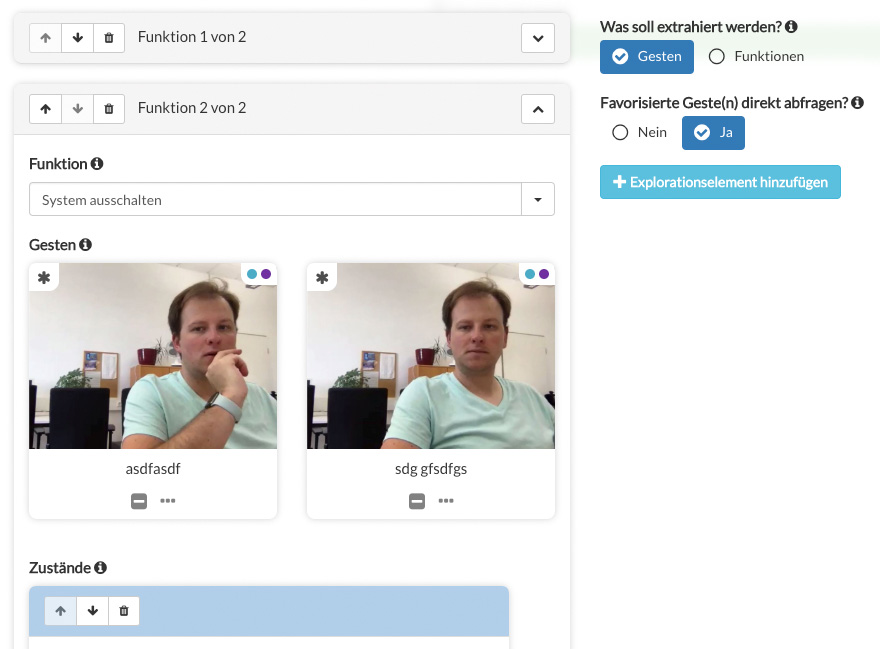
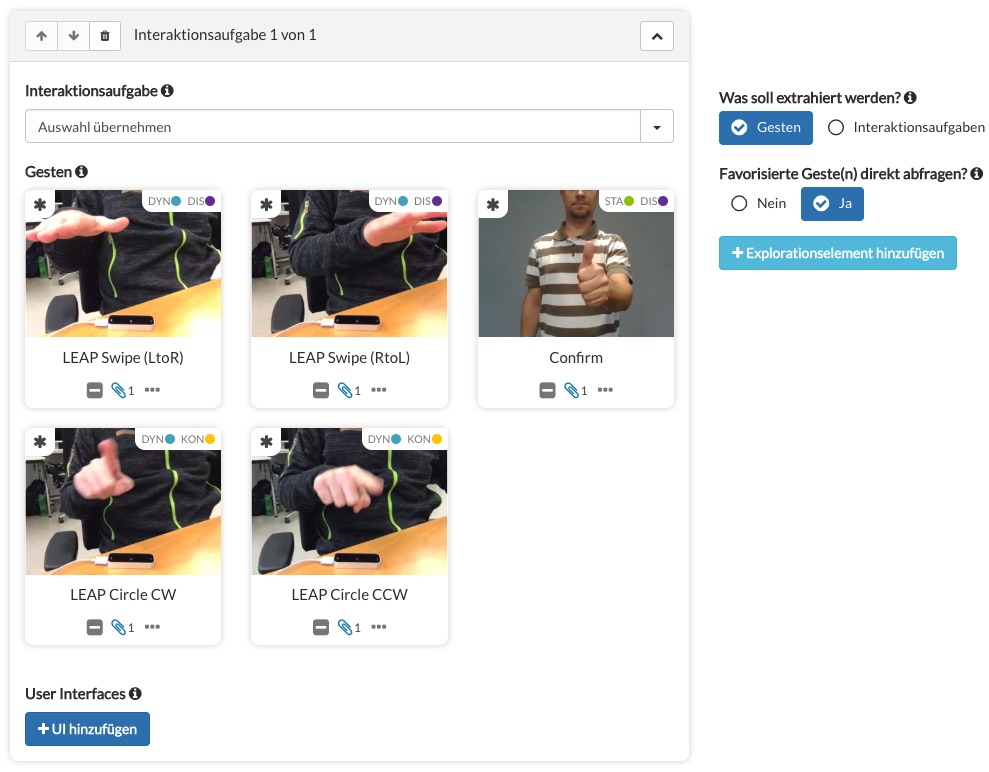
- update introduction with new text and images - fix issue for study execution webrtc, no audio input selected - add max participants for collaborative video calls - observer allowed for all phase steps - fix issue in rtc result player - add info for gesture thumbnail about used sensor

diff --git a/js/peerConnection.js b/js/peerConnection.js
@@ -106,18 +106,24 @@ PeerConnection.prototype.initialize = function (options) {
                 if (deviceInfos[i].kind === 'videoinput' && !deviceInfos[i].label.toLowerCase().includes('leap')) {
                     console.log('standard video input device:', deviceInfos[i]);
                     videoSource = deviceInfos[i].deviceId;
+                    if (micSource !== null) {
+                        break;
+                    }
                 } else if (deviceInfos[i].kind === 'audioinput' && deviceInfos[i].deviceId === 'default') {
                     console.log('standard audio input device:', deviceInfos[i]);
                     micSource = deviceInfos[i].deviceId;
+                    if (videoSource !== null) {
+                        break;
+                    }
                 }
             }
 
             if (getBrowser() === "Chrome") {
-                var constraints = {audio: false,
-                    video: {deviceId: {exact: videoSource, "mandatory": {"minWidth": 320, "maxWidth": 320, "minHeight": 240, "maxHeight": 240}, "optional": []}
+                var constraints = {audio: {deviceId: {exact: micSource}},
+                    video: {deviceId: {exact: videoSource, "mandatory": {"minWidth": 320, "maxWidth": 320, "minHeight": 240, "maxHeight": 240}, frameRate: {ideal: 20, min: 10}, "optional": []}
                     }};
             } else if (getBrowser() === "Firefox") {
-                var constraints = {audio: false,
+                var constraints = {audio: {deviceId: {exact: micSource}},
                     video: {deviceId: {exact: videoSource, width: {min: 320, ideal: 320, max: 320}, height: {min: 240, ideal: 240, max: 240}}
                     }};
             }
@@ -315,6 +321,12 @@ PeerConnection.prototype.initialize = function (options) {
                     console.log('screen added', peer);
                     $(connection).trigger(MESSAGE_SHARED_SCREEN_ADDED, [video]);
                 } else {
+                    var peers = webrtc.getPeers();
+                    if (connection.options.maxParticipants && connection.options.maxParticipants && peers.length > connection.options.maxParticipants) {
+                        console.warn('only 4 participants for one room allowed');
+                        connection.sendMessage('roomIsFull');
+                        return false;
+                    }
                     console.log('webrtc stream added', peer);
                     $(video).attr('data-role', peer.nick);
 
@@ -444,8 +456,6 @@ PeerConnection.prototype.initialize = function (options) {
                 console.log('joined room:', roomName);
                 connection.showLocalStream();
                 $(connection).trigger('joinedRoom', [roomName]);
-
-//            $('#localVideo').css({opacity: 1});
             });
 
             webrtc.on('leftRoom', function (roomName) {
@@ -453,8 +463,6 @@ PeerConnection.prototype.initialize = function (options) {
                 connection.hideLocalStream();
                 $(connection).trigger('leftRoom', [roomName]);
                 connection.destroy();
-
-//            $('#localVideo').css({opacity: 0});
             });
 
             webrtc.on('stunservers', function (event) {
@@ -503,9 +511,14 @@ PeerConnection.prototype.initialize = function (options) {
                 if (options.selectedRole === payload.role) {
                     $(connection).trigger('leaveRoomDuplicatedRoles');
                     connection.leaveRoom();
-
-//                alert('Pro Konversation darf nur jeweils eine Rolle eingenommen werden. Diese Rolle gibt es schon. Wählen Sie eine andere aus.');
                 }
+            });
+
+            $(connection).unbind('roomIsFull').bind('roomIsFull', function (event) {
+                event.preventDefault();
+                console.log('full room detected');
+                $(connection).trigger('leaveFullRoom');
+                connection.leaveRoom();
             });
         }
     } else {
@@ -848,9 +861,9 @@ PeerConnection.prototype.initRecording = function (startRecording) {
         if (startRecording === true) {
             mediaRecorder.start(1000);
         }
-    } else if(mediaRecorder.state !== 'recording' && startRecording) {
+    } else if (mediaRecorder.state !== 'recording' && startRecording) {
 //        if (mediaRecorder && mediaRecorder.state !== 'recording' && startRecording) {
-            mediaRecorder.start(1000);
+        mediaRecorder.start(1000);
 //        }
     }
 

diff --git a/js/rtc-result-player.js b/js/rtc-result-player.js
@@ -927,11 +927,11 @@ function getVisDataSet(timelineData) {
 //                    contentText = translation.annotationsList[annotations[i].action] + ': ' + gesture.title;
 //                    break;
                 case ACTION_START_TASK:
-                    var task = getTaskById(annotations[i].taskId);
+                    var task = getTaskById(timelineData, annotations[i].taskId);
                     contentText = translation.task + ': ' + task.title;
                     break;
                 case ACTION_ASSESSMENT:
-                    contentText = timelineData.phaseData.taskAssessments[annotations[i].assessmentId].title + ': ' + getTaskById(annotations[i].taskId).title;
+                    contentText = timelineData.phaseData.taskAssessments[annotations[i].assessmentId].title + ': ' + getTaskById(timelineData, annotations[i].taskId).title;
                     var color = timelineData.phaseData.taskAssessments[annotations[i].assessmentId].annotationColor;
                     switch (color) {
                         case ASSESSMENT_COLOR_GREEN:
@@ -1009,16 +1009,17 @@ function getVisDataSet(timelineData) {
 //        setLocalItem(timelineData.phaseResults.id + (timelineData.checkedVideos.secondVideo ? '.evaluator' : '.results'), tempData);
     }
 
-    function getTaskById(id) {
-        for (var i = 0; i < timelineData.phaseData.tasks.length; i++) {
-            if (parseInt(timelineData.phaseData.tasks[i].id) === parseInt(id)) {
-                return timelineData.phaseData.tasks[i];
-            }
-        }
-        return null;
-    }
-
     return array;
+}
+
+
+function getTaskById(timelineData, id) {
+    for (var i = 0; i < timelineData.phaseData.tasks.length; i++) {
+        if (parseInt(timelineData.phaseData.tasks[i].id) === parseInt(id)) {
+            return timelineData.phaseData.tasks[i];
+        }
+    }
+    return null;
 }
 
 function renderSeekbarData(visData, timelineData, content) {
@@ -1259,11 +1260,11 @@ function editAnnotation(annotationId, timelineData, content, source, linkListIte
                 selectedColor = 'item-warning-full';
                 break;
             case ACTION_START_TASK:
-                var task = getTaskById(annotation.taskId);
+                var task = getTaskById(timelineData, annotation.taskId);
                 contentText = translation.task + ': ' + task.title;
                 break;
             case ACTION_ASSESSMENT:
-                contentText = timelineData.phaseData.taskAssessments[annotation.assessmentId].title + ': ' + getTaskById(annotation.taskId).title;
+                contentText = timelineData.phaseData.taskAssessments[annotation.assessmentId].title + ': ' + getTaskById(timelineData, annotation.taskId).title;
                 selectedColor = timelineData.phaseData.taskAssessments[annotation.assessmentId].annotationColor;
                 break;
             case ACTION_SHOW_FEEDBACK:
@@ -1520,7 +1521,7 @@ function initializeAnnotationHandling(timelineData, content) {
 
     $('#annotation-nav-pills a').click(function (event) {
         event.preventDefault();
-        
+
         $(content).find('#annotation-nav-tab-content .active').removeClass('active');
 //        console.log($(content).find('#annotation-nav-tab-content .active'));
         var activeTab = $(event.currentTarget).attr('href');

diff --git a/js/execution/user-test.js b/js/execution/user-test.js
@@ -413,7 +413,7 @@ UserTest.prototype.renderModeratorView = function () {
                         $(feedbackButton).find('#waiting-indicator').addClass('hidden');
 
                         getGMT(function (timestamp) {
-                            var currentPhase = getCurrentPhase();
+//                            var currentPhase = getCurrentPhase();
                             var tempData = getLocalItem(currentPhase.id + '.tempSaveData');
                             tempData.annotations.push({id: tempData.annotations.length, action: ACTION_HIDE_FEEDBACK, feeback: feedback, time: timestamp});
                             setLocalItem(currentPhase.id + '.tempSaveData', tempData);
@@ -421,7 +421,7 @@ UserTest.prototype.renderModeratorView = function () {
                     });
 
                     getGMT(function (timestamp) {
-                        var currentPhase = getCurrentPhase();
+//                        var currentPhase = getCurrentPhase();
                         var tempData = getLocalItem(currentPhase.id + '.tempSaveData');
                         tempData.annotations.push({id: tempData.annotations.length, action: ACTION_SHOW_FEEDBACK, feeback: feedback, time: timestamp});
                         setLocalItem(currentPhase.id + '.tempSaveData', tempData);

diff --git a/js/globalFunctions.js b/js/globalFunctions.js
@@ -2522,6 +2522,20 @@ function initGestureThumbnail(data, typeId, layout, panelStyle) {
         clone.find('.gesture-info-symbols').addClass('hidden');
     }
 
+    if (data.sensorData) {
+        $(clone).find('.symbol-container-sensor').removeClass('hidden');
+        $(clone).find('.symbol-container-sensor').attr('data-content', translation.sensors[data.sensorData.sensor].title);
+        
+        switch (data.sensorData.sensor) {
+            case TYPE_RECORD_LEAP:
+                $(clone).find('.symbol-container-sensor .text-sensor-leap').removeClass('hidden');
+                break;
+            case TYPE_RECORD_KINECT:
+                $(clone).find('.symbol-container-sensor .text-sensor-kinect').removeClass('hidden');
+                break;
+        }
+    }
+
     if (panelStyle) {
         clone.find('.panel').removeClass('panel-default').addClass(panelStyle);
     }

diff --git a/js/collaborativeVideo.js b/js/collaborativeVideo.js
@@ -10,7 +10,7 @@ var joinedRoom = false;
 
 function checkCollaborativeConversation() {
     var query = getQueryParams(document.location.search);
-    
+
     if (query && query.joinedConv && query.joinedConv === 'true') {
         console.log('joined room =', query.joinedConv, $('.btn-join-conversation'));
         $('.btn-join-conversation').click();
@@ -41,6 +41,7 @@ function initCollaborativeVideoCaller(roomId) {
         nick: selectedRole,
         ignoreRole: 'yes',
         selectedRole: selectedRole,
+        maxParticipants: 4,
         localStream: {audio: 'yes', video: 'yes', visualize: 'yes'},
         remoteStream: {audio: 'yes', video: 'yes'}
     };

diff --git a/externals/template-gesture.php b/externals/template-gesture.php
@@ -26,6 +26,12 @@ include '../includes/language.php';
                     </div>
                 </div>
                 <div class="gesture-info-symbols">
+                    <span class="symbol-container-sensor hidden" data-toggle="popover" data-trigger="hover" data-placement="auto" data-content="" style="display: flex; cursor: pointer; margin-right: 6px;">
+                        <span class="gesture-info-symbol-text text-sensor">
+                            <span class="text-sensor-leap hidden"><?php echo $lang->sensors->leap->titleShort ?></span>
+                            <span class="text-sensor-kinect hidden"><?php echo $lang->sensors->kinect->titleShort ?></span>
+                        </span>
+                    </span>
                     <span class="symbol-container-gesture-execution" data-toggle="popover" data-trigger="hover" data-placement="auto" data-content="">
                         <span class="gesture-info-symbol-text text-gesture-execution"></span>
                         <div class="gesture-info-symbol symbol-gesture-execution"></div>
@@ -34,9 +40,6 @@ include '../includes/language.php';
                         <span class="gesture-info-symbol-text text-gesture-interaction"></span>
                         <div class="gesture-info-symbol symbol-gesture-interaction"></div>
                     </span>
-<!--                    <span class="symbol-container-gesture-sets" data-toggle="popover" data-trigger="hover" data-placement="auto" data-content="">
-                        <span class="gesture-sets-info-symbol-text">SETS</span>
-                    </span>-->
                 </div>
             </div>
             <div class="caption text-center">
@@ -69,6 +72,12 @@ include '../includes/language.php';
                     </div>
                 </div>
                 <div class="gesture-info-symbols">
+                    <span class="symbol-container-sensor hidden" data-toggle="popover" data-trigger="hover" data-placement="auto" data-content="" style="display: flex; cursor: pointer; margin-right: 6px;">
+                        <span class="gesture-info-symbol-text text-sensor">
+                            <span class="text-sensor-leap hidden"><?php echo $lang->sensors->leap->titleShort ?></span>
+                            <span class="text-sensor-kinect hidden"><?php echo $lang->sensors->kinect->titleShort ?></span>
+                        </span>
+                    </span>
                     <span class="symbol-container-gesture-execution" data-toggle="popover" data-trigger="hover" data-placement="auto" data-content="">
                         <span class="gesture-info-symbol-text text-gesture-execution"></span>
                         <div class="gesture-info-symbol symbol-gesture-execution"></div>
@@ -107,6 +116,12 @@ include '../includes/language.php';
                     </div>
                 </div>
                 <div class="gesture-info-symbols">
+                    <span class="symbol-container-sensor hidden" data-toggle="popover" data-trigger="hover" data-placement="auto" data-content="" style="display: flex; cursor: pointer; margin-right: 6px;">
+                        <span class="gesture-info-symbol-text text-sensor">
+                            <span class="text-sensor-leap hidden"><?php echo $lang->sensors->leap->titleShort ?></span>
+                            <span class="text-sensor-kinect hidden"><?php echo $lang->sensors->kinect->titleShort ?></span>
+                        </span>
+                    </span>
                     <span class="symbol-container-gesture-execution" data-toggle="popover" data-trigger="hover" data-placement="auto" data-content="">
                         <span class="gesture-info-symbol-text text-gesture-execution"></span>
                         <div class="gesture-info-symbol symbol-gesture-execution"></div>
@@ -152,6 +167,12 @@ include '../includes/language.php';
                     </div>
                 </div>
                 <div class="gesture-info-symbols">
+                    <span class="symbol-container-sensor hidden" data-toggle="popover" data-trigger="hover" data-placement="auto" data-content="" style="display: flex; cursor: pointer; margin-right: 6px;">
+                        <span class="gesture-info-symbol-text text-sensor">
+                            <span class="text-sensor-leap hidden"><?php echo $lang->sensors->leap->titleShort ?></span>
+                            <span class="text-sensor-kinect hidden"><?php echo $lang->sensors->kinect->titleShort ?></span>
+                        </span>
+                    </span>
                     <span class="symbol-container-gesture-execution" data-toggle="popover" data-trigger="hover" data-placement="auto" data-content="">
                         <span class="gesture-info-symbol-text text-gesture-execution"></span>
                         <div class="gesture-info-symbol symbol-gesture-execution"></div>
@@ -195,6 +216,12 @@ include '../includes/language.php';
                     </div>
                 </div>
                 <div class="gesture-info-symbols">
+                    <span class="symbol-container-sensor hidden" data-toggle="popover" data-trigger="hover" data-placement="auto" data-content="" style="display: flex; cursor: pointer; margin-right: 6px;">
+                        <span class="gesture-info-symbol-text text-sensor">
+                            <span class="text-sensor-leap hidden"><?php echo $lang->sensors->leap->titleShort ?></span>
+                            <span class="text-sensor-kinect hidden"><?php echo $lang->sensors->kinect->titleShort ?></span>
+                        </span>
+                    </span>
                     <span class="symbol-container-gesture-execution" data-toggle="popover" data-trigger="hover" data-placement="auto" data-content="">
                         <span class="gesture-info-symbol-text text-gesture-execution"></span>
                         <div class="gesture-info-symbol symbol-gesture-execution"></div>
@@ -226,6 +253,12 @@ include '../includes/language.php';
                     </div>
                 </div>
                 <div class="gesture-info-symbols">
+                    <span class="symbol-container-sensor hidden" data-toggle="popover" data-trigger="hover" data-placement="auto" data-content="" style="display: flex; cursor: pointer; margin-right: 6px;">
+                        <span class="gesture-info-symbol-text text-sensor">
+                            <span class="text-sensor-leap hidden"><?php echo $lang->sensors->leap->titleShort ?></span>
+                            <span class="text-sensor-kinect hidden"><?php echo $lang->sensors->kinect->titleShort ?></span>
+                        </span>
+                    </span>
                     <span class="symbol-container-gesture-execution" data-toggle="popover" data-trigger="hover" data-placement="auto" data-content="">
                         <span class="gesture-info-symbol-text text-gesture-execution"></span>
                         <div class="gesture-info-symbol symbol-gesture-execution"></div>
@@ -310,6 +343,12 @@ include '../includes/language.php';
                     <i class="fa fa-asterisk"></i>
                 </div>
                 <div class="gesture-info-symbols">
+                    <span class="symbol-container-sensor hidden" data-toggle="popover" data-trigger="hover" data-placement="auto" data-content="" style="display: flex; cursor: pointer; margin-right: 6px;">
+                        <span class="gesture-info-symbol-text text-sensor">
+                            <span class="text-sensor-leap hidden"><?php echo $lang->sensors->leap->titleShort ?></span>
+                            <span class="text-sensor-kinect hidden"><?php echo $lang->sensors->kinect->titleShort ?></span>
+                        </span>
+                    </span>
                     <span class="symbol-container-gesture-execution" data-toggle="popover" data-trigger="hover" data-placement="auto" data-content="">
                         <span class="gesture-info-symbol-text text-gesture-execution"></span>
                         <div class="gesture-info-symbol symbol-gesture-execution"></div>
@@ -383,6 +422,12 @@ include '../includes/language.php';
                     <i class="fa fa-asterisk"></i>
                 </div>
                 <div class="gesture-info-symbols">
+                    <span class="symbol-container-sensor hidden" data-toggle="popover" data-trigger="hover" data-placement="auto" data-content="" style="display: flex; cursor: pointer; margin-right: 6px;">
+                        <span class="gesture-info-symbol-text text-sensor">
+                            <span class="text-sensor-leap hidden"><?php echo $lang->sensors->leap->titleShort ?></span>
+                            <span class="text-sensor-kinect hidden"><?php echo $lang->sensors->kinect->titleShort ?></span>
+                        </span>
+                    </span>
                     <span class="symbol-container-gesture-execution" data-toggle="popover" data-trigger="hover" data-placement="auto" data-content="">
                         <span class="gesture-info-symbol-text text-gesture-execution"></span>
                         <div class="gesture-info-symbol symbol-gesture-execution"></div>

diff --git a/externals/modal-gesture.php b/externals/modal-gesture.php
@@ -88,10 +88,14 @@ include '../includes/language.php';
                             <div id="rated-by-myself" class="hidden"><?php echo $lang->gestureRated ?></div>
                             <div class="alert-space alert-rating-submitted" style="margin-top: 10px;"></div>
                         </div>
-                        <button type="button" class="btn btn-block btn-warning" id="btn-rate-gesture" style="margin-top: 10px;"><?php echo $lang->rateGesture ?></button>
-                        <div class="btn-group-vertical btn-block hidden" id="rating-submit-buttons" style="margin-top: 0px;">
-                            <button type="button" class="btn btn-success" id="btn-submit-gesture-rating"><?php echo $lang->submitGestureRating ?></button>
-                            <button type="button" class="btn btn-danger" id="btn-cancel-gesture-rating"><?php echo $lang->cancel ?></button>
+                        <button type="button" class="btn btn-block btn-default" id="btn-rate-gesture" style="margin-top: 10px;"><i class="fa fa-star"></i> <?php echo $lang->rateGesture ?></button>
+                        <div class="btn-group  btn-group-justified hidden" id="rating-submit-buttons" style="margin-top: 0px;">
+                            <div class="btn-group">
+                                <button type="button" class="btn btn-success" id="btn-submit-gesture-rating"><i class="fa fa-check"></i> <span class="btn-text"><?php echo $lang->submitGestureRating ?></span></button>
+                            </div>
+                            <div class="btn-group">
+                                <button type="button" class="btn btn-danger" id="btn-cancel-gesture-rating"><i class="fa fa-close"></i> <span class="btn-text"><?php echo $lang->cancel ?></span></button>
+                            </div>
                         </div>
                     </div>
 
@@ -1086,7 +1090,7 @@ include '../includes/language.php';
                             $(currentPreviewGesture.thumbnail).find('.btn-edit-gesture-set .amount').text('');
                         }
                     }
-                    
+
                     clearAlerts($('#add-to-gesture-set'));
                     $(container).trigger('gestureSetsUpdated', [currentPreviewGesture.gesture.id]);
                 });

diff --git a/study-prepare-evaluator.php b/study-prepare-evaluator.php
@@ -405,28 +405,16 @@ if ($h && $token && $studyId) {
             function checkRoles() {
                 var studyData = getLocalItem(STUDY);
                 var phaseSteps = getLocalItem(STUDY_PHASE_STEPS);
-                var needObserver, needWizard = false;
+                var needObserver = true;
+                var needWizard = false;
+
                 for (var i = 0; i < phaseSteps.length; i++) {
                     var phaseStep = phaseSteps[i];
                     var phaseStepData = getLocalItem(phaseStep.id + '.data');
 
                     console.log(phaseStep, phaseStepData);
                     switch (phaseStep.format) {
-                        case IDENTIFICATION:
-                        case EXPLORATION:
-                        case GESTURE_TRAINING:
-                        case SLIDESHOW_GESTURES:
-                        case SLIDESHOW_TRIGGER:
-                        case PHYSICAL_STRESS_TEST:
-                            if (phaseStepData.observations && phaseStepData.observations.length > 0) {
-                                needObserver = true;
-                            }
-                            break;
                         case SCENARIO:
-                            if (phaseStepData.observations && phaseStepData.observations.length > 0) {
-                                needObserver = true;
-                            }
-
                             if (phaseStepData.tasks && phaseStepData.tasks.length > 0) {
                                 needWizard = true;
                             }

diff --git a/help-catalog.php b/help-catalog.php
@@ -84,6 +84,7 @@ include_once 'includes/functions.php';
                 allHelp.push({id: 'study', content: translation.introductionStudy});
                 allHelp.push({id: 'extraction', content: translation.introductionExtraction});
                 allHelp.push({id: 'participant', content: translation.introductionParticipant});
+                allHelp.push({id: 'collaboration', content: translation.introductionCollaboration});
 
                 for (var i = 0; i < allHelp.length; i++) {
                     console.log('help:', allHelp[i]);
